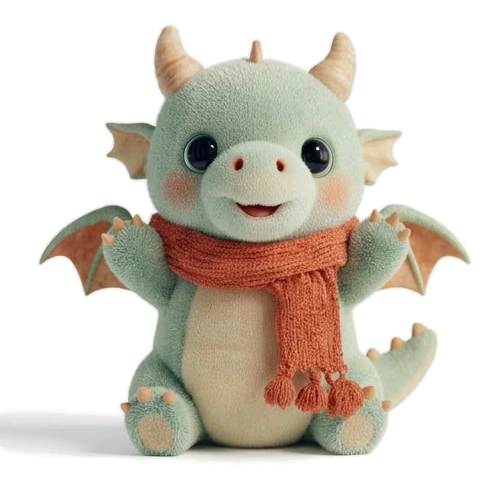
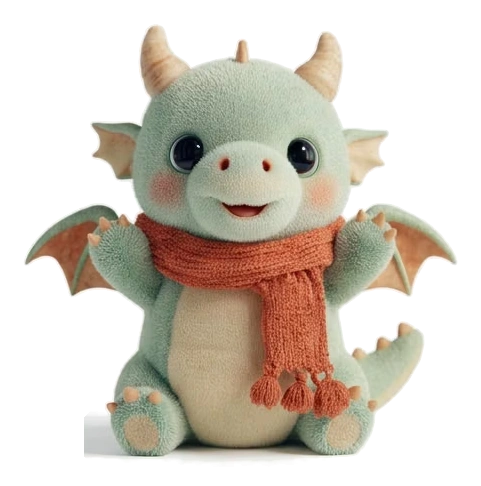
Trim the baked-in floor shadow and draw a CSS ground shadow instead
Every pet render came with a soft contact shadow baked into the floor,
full opacity, which read as a light "puddle" wider than the pet on any
scene photo that wasn't plain white. Color and texture can't reliably
tell it apart from the pet - it blends into the subject's own ambient
shading as one continuous smooth gradient (confirmed by trying both: a
threshold loose enough to catch the shadow also ate a hole in the
seal's belly between its feet, since that patch is just as smooth and
pale).

What is reliable is geometry: real anatomy widens a silhouette
gradually, a few px per row, while the shadow's flare starts as an
abrupt jump. scripts/build-pet-assets.js now walks the bottom of each
subject row by row, only letting the "allowed" span grow by a capped
rate, and freezes it the moment a row jumps past that - clipping
everything wider from there down. Doesn't catch every case (a pot's
base can fade into its own ambient-occlusion halo just as gradually as
real growth, so cat/plant keep a smaller residual haze), but removes
the worst of it everywhere and fully cleans up the seal, which was the
reported case.

The app now draws its own flat, blurred ground-contact shadow via CSS
(.pet-ground-shadow, a radial-gradient oval under .stage-photo) instead
of relying on the photo's own shadow, so it reads correctly against
every scene background. It's a separate, unanimated element positioned
off .stage-wrap's own bottom padding, so it never interacts with the
[…]

diff --git a/scripts/build-pet-assets.js b/scripts/build-pet-assets.js
@@ -42,6 +42,17 @@
 // hardened straight to fully transparent regardless of its color distance;
 // only the pixels actually near the edge get the graduated feather.
 //
+// Every render also bakes in a soft contact shadow under the pet's feet,
+// full opacity, that reads as a light "puddle" once composited over
+// anything but a white background. Color/texture can't reliably separate
+// it from the pet - the shadow blends into the belly's own soft ambient
+// shading as one continuous smooth gradient - so it's trimmed geometrically
+// instead: the narrowest row near the bottom (the pet's own "waist", just
+// above where the shadow fans out) sets how wide the subject is allowed to
+// be down there, and anything wider than that in the same band is the
+// shadow's flare, not the pet. The app draws its own CSS shadow underneath
+// to replace it (see the pet screen's shadow element).
+//
 // Usage: node scripts/build-pet-assets.js [species ...]
 //   node scripts/build-pet-assets.js            # all species
 //   node scripts/build-pet-assets.js seal        # just seal-*
@@ -68,6 +79,9 @@ const SUBJECT_ALPHA_THRESHOLD = 128; // alpha above this counts as "subject" for
 const BBOX_PADDING = 24;    // extra px kept around the subject's largest component, for its own feathered edge
 const CONTAMINATED_CORNER_MAX_DEV = 20; // a corner patch this internally inconsistent contains part of the subject, not flat background
 const EDGE_BAND = 6;        // px; how far from the real silhouette the soft feather is allowed to reach
+const SHADOW_BAND_FRACTION = 0.25; // bottom fraction of the subject's own height searched for the contact shadow's flare
+const SHADOW_MAX_GROWTH_PER_ROW = 18; // px/row the silhouette is allowed to widen naturally (a flipper or paw flaring out); more than this, in one row, is the shadow starting
+const SHADOW_WING_MARGIN = 15; // px of slack added around the last legitimate width before anything wider counts as shadow, not pet
 
 const PETS = {
   cat: { good: 'cat-good.avif', great: 'cat-great.jpg', low: 'cat-low.avif', verylow: 'cat-verylow.avif' },
@@ -235,6 +249,85 @@ function floodCutout(raw, width, height, channels, bgModel, lowT, highT) {
     if (label[i] === -1) continue;
     if (label[i] === largestLabel) trueSubject[i] = 1;
     else candidate[i] = 1; // stray island, not the pet - treat it as background candidate instead
+  }
+
+  // The renders all come with a soft contact shadow baked into the floor,
+  // which is part of the largest component (it touches the feet) and reads
+  // as "not background colored" - so without this step it stays a fully
+  // opaque light patch under the pet instead of fading into whatever scene
+  // the app composites it over.
+  //
+  // Color and texture turned out not to reliably tell a shadow apart from
+  // the pet: the shadow blends into the belly's own ambient-occlusion
+  // shading as one continuous smooth gradient, with no clean boundary in
+  // either color distance or local variance (tried both - a threshold loose
+  // enough to catch the shadow also ate a hole in the belly between the
+  // feet, because that patch is just as smooth and just as pale). What IS
+  // reliable is geometry: real anatomy (a flipper flaring out, a paw
+  // planting) widens the silhouette gradually, a few px per row; the
+  // shadow's flare starts as an abrupt jump instead. Walking down the
+  // bottom band row by row and only ever letting the "allowed" span grow by
+  // SHADOW_MAX_GROWTH_PER_ROW tracks a flaring flipper just fine, then
+  // freezes the moment a row jumps past that rate - which is where the
+  // shadow starts - and clips every row from there down to that frozen
+  // span. A row can still narrow immediately (tracking the body shrinking
+  // back in), just not widen fast.
+  //
+  // Not every shadow announces itself with a jump, though - a pot's base
+  // can fade into its own ambient-occlusion halo just as gradually as the
+  // growth-rate allows, and that case slips through this check with some
+  // residual haze left around the base. The CSS ground-shadow the app draws
+  // is deliberately sized to cover that residual too (see .pet-ground-
+  // shadow), so a case this check misses still ends up looking fine, just
+  // via the CSS layer instead of the cutout.
+  let subjectMinY = height, subjectMaxY = -1;
+  for (let i = 0; i < n; i++) {
+    if (!trueSubject[i]) continue;
+    const y = (i / width) | 0;
+    if (y < subjectMinY) subjectMinY = y;
+    if (y > subjectMaxY) subjectMaxY = y;
+  }
+  if (subjectMaxY >= 0) {
+    const bandTop = subjectMaxY - Math.round((subjectMaxY - subjectMinY) * SHADOW_BAND_FRACTION);
+
+    let allowedMinX = null, allowedMaxX = null;
+    let frozen = false;
+    for (let y = bandTop; y <= subjectMaxY; y++) {
+      let minX = -1, maxX = -1;
+      for (let x = 0; x < width; x++) {
+        if (trueSubject[y * width + x]) {
+          if (minX === -1) minX = x;
+          maxX = x;
+        }
+      }
+      if (minX === -1) continue;
+
+      if (!frozen) {
+        if (allowedMinX === null) {
+          allowedMinX = minX;
+          allowedMaxX = maxX;
+        } else {
+          const growLeft = allowedMinX - minX;
+          const growRight = maxX - allowedMaxX;
+          if (growLeft > SHADOW_MAX_GROWTH_PER_ROW || growRight > SHADOW_MAX_GROWTH_PER_ROW) {
+            frozen = true; // sudden widening - the shadow starts here, lock the span as of the previous row
+          } else {
+            allowedMinX = Math.min(allowedMinX, minX);
+            allowedMaxX = Math.max(allowedMaxX, maxX);
+          }
+        }
+      }
+
+      if (frozen && allowedMinX !== null) {
+        const safeMinX = allowedMinX - SHADOW_WING_MARGIN;
+        const safeMaxX = allowedMaxX + SHADOW_WING_MARGIN;
+        for (let x = 0; x < width; x++) {
+          if (x >= safeMinX && x <= safeMaxX) continue;
+          const i = y * width + x;
+          if (trueSubject[i]) { trueSubject[i] = 0; candidate[i] = 1; }
+        }
+      }
+    }
   }
 
   const visited = new Uint8Array(n);

diff --git a/public/patient/index.html b/public/patient/index.html
@@ -195,11 +195,8 @@
     width:100%;
     max-width:150px;
     margin:0 auto;
-    /* background already removed from the source image (transparent WebP) -
-       a drop-shadow (follows the pet's own silhouette) grounds it on the
-       scene photo instead of a box-shadow, which would draw a rectangle
-       around the transparent margins. */
-    filter:drop-shadow(0 6px 8px rgba(0,0,0,.3));
+    position:relative;
+    z-index:1;
   }
   /* Toggled by applySpeciesTheme for whichever species has its own photo
      set (see PHOTO_STATE_FILES) - species-id based, not shape/kind based,
@@ -207,6 +204,29 @@
      species that still uses the SVG rig. */
   #plantStage.photo-active{display:none;}
   #plantStage.photo-active ~ .stage-photo{display:block;}
+  /* Flat, blurred ground-contact shadow for photo-based pets. The WebP
+     sprites themselves no longer carry a baked-in floor shadow (trimmed at
+     the asset-pipeline level - see scripts/build-pet-assets.js - because a
+     shadow baked into the photo only reads correctly against a white
+     background). This is a plain radial-gradient oval instead: it looks
+     like a natural contact shadow against any scene photo, and being a
+     separate, unanimated element (not inside .pet-visual/.pet-breathe) it
+     never has to react to the appear/breathing/improve-glow animations
+     those play out on the pet itself. */
+  .pet-ground-shadow{
+    display:none;
+    position:absolute;
+    left:50%;
+    bottom:16px;
+    width:86px;
+    height:16px;
+    margin-left:-43px;
+    background:radial-gradient(ellipse at center, rgba(0,0,0,.22) 0%, rgba(0,0,0,.12) 55%, rgba(0,0,0,0) 75%);
+    filter:blur(2px);
+    z-index:0;
+    pointer-events:none;
+  }
+  #plantStage.photo-active ~ .pet-ground-shadow{display:block;}
   .plant-group{
     transition:filter 1.3s ease;
   }
@@ -2049,6 +2069,7 @@
           </g>
         </svg>
         <img id="petStageImg" class="stage-photo" alt="" src="img/cat-great.webp">
+        <div class="pet-ground-shadow" id="petGroundShadow"></div>
         </div>
         </div>
         </div>

diff --git a/mobile-build/styles.css b/mobile-build/styles.css
@@ -188,11 +188,8 @@
     width:100%;
     max-width:150px;
     margin:0 auto;
-    /* background already removed from the source image (transparent WebP) -
-       a drop-shadow (follows the pet's own silhouette) grounds it on the
-       scene photo instead of a box-shadow, which would draw a rectangle
-       around the transparent margins. */
-    filter:drop-shadow(0 6px 8px rgba(0,0,0,.3));
+    position:relative;
+    z-index:1;
   }
   /* Toggled by applySpeciesTheme for whichever species has its own photo
      set (see PHOTO_STATE_FILES) - species-id based, not shape/kind based,
@@ -200,6 +197,29 @@
      species that still uses the SVG rig. */
   #plantStage.photo-active{display:none;}
   #plantStage.photo-active ~ .stage-photo{display:block;}
+  /* Flat, blurred ground-contact shadow for photo-based pets. The WebP
+     sprites themselves no longer carry a baked-in floor shadow (trimmed at
+     the asset-pipeline level - see scripts/build-pet-assets.js - because a
+     shadow baked into the photo only reads correctly against a white
+     background). This is a plain radial-gradient oval instead: it looks
+     like a natural contact shadow against any scene photo, and being a
+     separate, unanimated element (not inside .pet-visual/.pet-breathe) it
+     never has to react to the appear/breathing/improve-glow animations
+     those play out on the pet itself. */
+  .pet-ground-shadow{
+    display:none;
+    position:absolute;
+    left:50%;
+    bottom:16px; /* matches .stage-wrap's own padding-bottom, so this lines up with .pet-visual's flex-aligned bottom edge */
+    width:148px;
+    height:28px;
+    margin-left:-74px;
+    background:radial-gradient(ellipse at center, rgba(0,0,0,.34) 0%, rgba(0,0,0,.18) 46%, rgba(0,0,0,0) 74%);
+    filter:blur(4px);
+    z-index:0;
+    pointer-events:none;
+  }
+  #plantStage.photo-active ~ .pet-ground-shadow{display:block;}
   .plant-group{
     transition:filter 1.3s ease;
   }

diff --git a/mobile-build/index.html b/mobile-build/index.html
@@ -548,6 +548,7 @@
           </g>
         </svg>
         <img id="petStageImg" class="stage-photo" alt="" src="img/cat-great.webp">
+        <div class="pet-ground-shadow" id="petGroundShadow"></div>
         </div>
         </div>
         </div>
